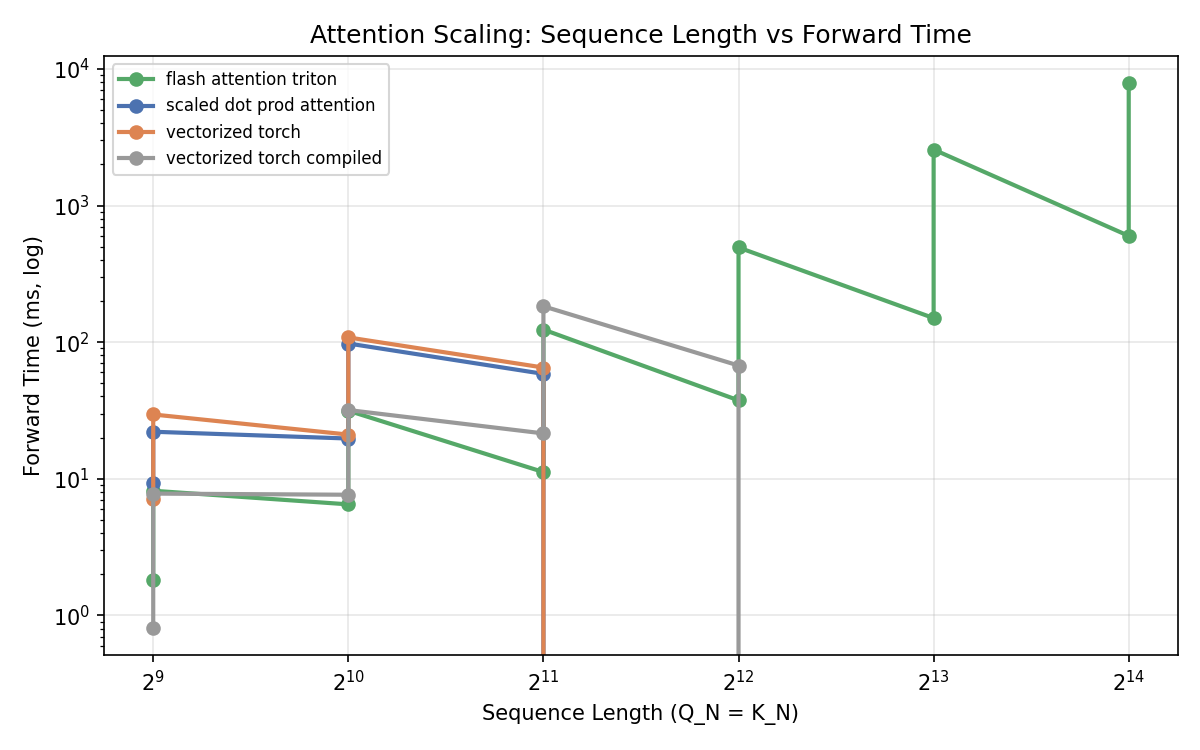
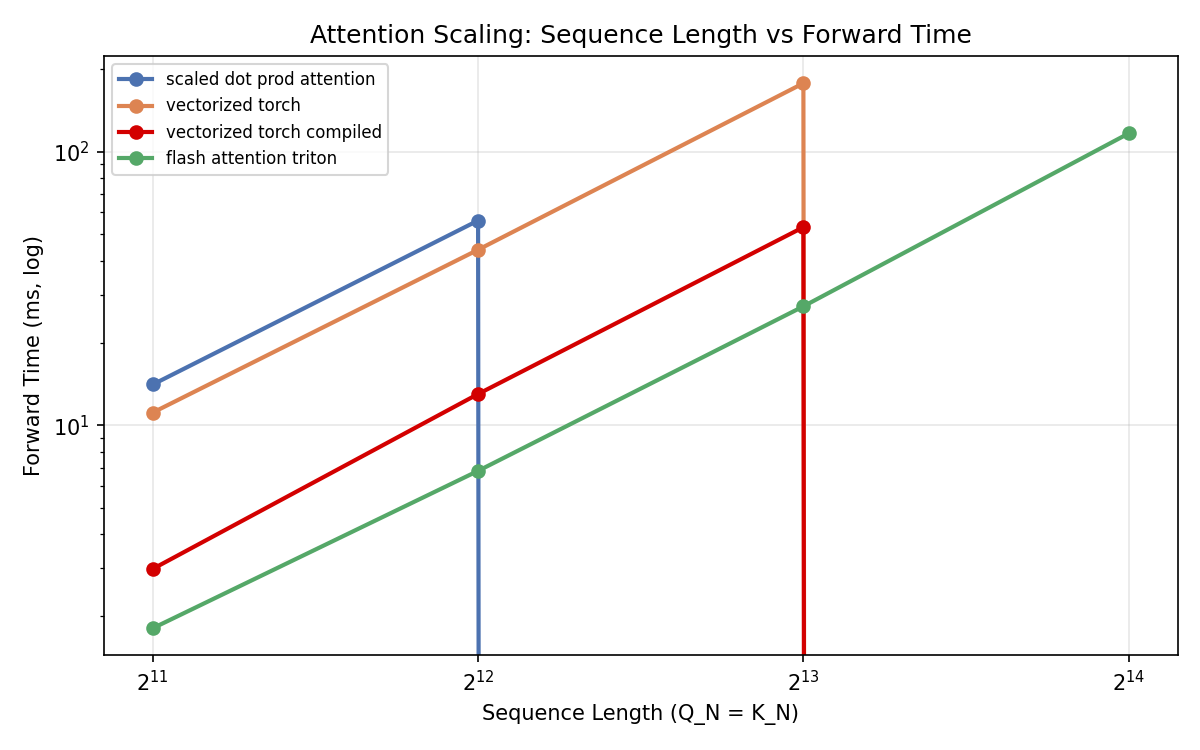
Update benchmarking results

diff --git a/cs336_systems/FlashAttention/flash_attention_triton.py b/cs336_systems/FlashAttention/flash_attention_triton.py
@@ -65,38 +65,31 @@ autotune_configs = [
     triton.Config({'Q_TILE_SIZE': 64, 'K_TILE_SIZE': 64}, num_stages=2, num_warps=8),
     triton.Config({'Q_TILE_SIZE': 64, 'K_TILE_SIZE': 64}, num_stages=3, num_warps=8),
 
-    # ==========================================================
-    # 16x* (latency-focused, plus longer-K variants)
-    # ==========================================================
-    triton.Config({'Q_TILE_SIZE': 16, 'K_TILE_SIZE': 32},  num_stages=1, num_warps=1),
-    triton.Config({'Q_TILE_SIZE': 16, 'K_TILE_SIZE': 32},  num_stages=2, num_warps=2),
-    triton.Config({'Q_TILE_SIZE': 16, 'K_TILE_SIZE': 64},  num_stages=1, num_warps=2),
-    triton.Config({'Q_TILE_SIZE': 16, 'K_TILE_SIZE': 64},  num_stages=2, num_warps=2),
-    triton.Config({'Q_TILE_SIZE': 16, 'K_TILE_SIZE': 128}, num_stages=2, num_warps=4),
-    triton.Config({'Q_TILE_SIZE': 16, 'K_TILE_SIZE': 128}, num_stages=3, num_warps=4),
+    # -------------------------
+    # Baseline / general-purpose
+    # -------------------------
+    triton.Config({'Q_TILE_SIZE': 32,  'K_TILE_SIZE': 64},  num_stages=2, num_warps=4),
+    triton.Config({'Q_TILE_SIZE': 64,  'K_TILE_SIZE': 64},  num_stages=2, num_warps=4),
+    triton.Config({'Q_TILE_SIZE': 64,  'K_TILE_SIZE': 64},  num_stages=3, num_warps=8),
 
-    # ==========================================================
-    # 32x* (balanced, plus long-K and short-K)
-    # ==========================================================
-    triton.Config({'Q_TILE_SIZE': 32, 'K_TILE_SIZE': 16},  num_stages=1, num_warps=2),
-    triton.Config({'Q_TILE_SIZE': 32, 'K_TILE_SIZE': 16},  num_stages=2, num_warps=2),
-    triton.Config({'Q_TILE_SIZE': 32, 'K_TILE_SIZE': 32},  num_stages=1, num_warps=2),
-    triton.Config({'Q_TILE_SIZE': 32, 'K_TILE_SIZE': 32},  num_stages=2, num_warps=4),
-    triton.Config({'Q_TILE_SIZE': 32, 'K_TILE_SIZE': 64},  num_stages=2, num_warps=4),
-    triton.Config({'Q_TILE_SIZE': 32, 'K_TILE_SIZE': 64},  num_stages=3, num_warps=4),
-    triton.Config({'Q_TILE_SIZE': 32, 'K_TILE_SIZE': 128}, num_stages=2, num_warps=8),
-    triton.Config({'Q_TILE_SIZE': 32, 'K_TILE_SIZE': 128}, num_stages=3, num_warps=8),
+    # -------------------------
+    # Long-context leaning (bigger K tiles)
+    # -------------------------
+    triton.Config({'Q_TILE_SIZE': 64,  'K_TILE_SIZE': 128}, num_stages=3, num_warps=8),
+    triton.Config({'Q_TILE_SIZE': 64,  'K_TILE_SIZE': 128}, num_stages=5, num_warps=8),
 
-    # ==========================================================
-    # 64x* (throughput-ish, very common sweet spots)
-    # ==========================================================
-    triton.Config({'Q_TILE_SIZE': 64, 'K_TILE_SIZE': 16},  num_stages=1, num_warps=4),
-    triton.Config({'Q_TILE_SIZE': 64, 'K_TILE_SIZE': 32},  num_stages=1, num_warps=4),
-    triton.Config({'Q_TILE_SIZE': 64, 'K_TILE_SIZE': 32},  num_stages=2, num_warps=8),
-    triton.Config({'Q_TILE_SIZE': 64, 'K_TILE_SIZE': 64},  num_stages=2, num_warps=4),
-    triton.Config({'Q_TILE_SIZE': 64, 'K_TILE_SIZE': 64},  num_stages=3, num_warps=8),
-    triton.Config({'Q_TILE_SIZE': 64, 'K_TILE_SIZE': 128}, num_stages=2, num_warps=8),
-    triton.Config({'Q_TILE_SIZE': 64, 'K_TILE_SIZE': 128}, num_stages=4, num_warps=8),
+    # Push max K tile (useful to demonstrate "long-K can win" at 16k/32k)
+    triton.Config({'Q_TILE_SIZE': 64,  'K_TILE_SIZE': 256}, num_stages=4, num_warps=8),
+    triton.Config({'Q_TILE_SIZE': 64,  'K_TILE_SIZE': 256}, num_stages=6, num_warps=8),
+
+    # -------------------------
+    # Big-Q throughput-ish (often competitive when arithmetic intensity is decent)
+    # -------------------------
+    triton.Config({'Q_TILE_SIZE': 128, 'K_TILE_SIZE': 64},  num_stages=3, num_warps=8),
+    triton.Config({'Q_TILE_SIZE': 128, 'K_TILE_SIZE': 128}, num_stages=4, num_warps=8),
+
+    # Max warps/stages (explicitly included for demo)
+    triton.Config({'Q_TILE_SIZE': 128, 'K_TILE_SIZE': 128}, num_stages=6, num_warps=16),
 ]
 
 # We need to include N_Q, N_K in the key since they affect control flow (masking)

diff --git a/cs336_systems/experiments/benchmark_attention_sweep.py b/cs336_systems/experiments/benchmark_attention_sweep.py
@@ -39,20 +39,12 @@ torch.set_float32_matmul_precision('high')
 DEFAULT_TIERS = [
     
     # ==========================================
-    # 
+    # A XS-size LM with 64 per-head dimension (d_model=768/heads=12), 12 heads, batch size 4
     # ==========================================
-    ("TOY-seq2048-hd64-12h-8b",   2048,   2048,   64, 12, 4),
-    ("TOY-seq4096-hd64-12h-8b",    4096,   4096,   64, 12, 4),
-    ("TOY-seq8192-hd64-12h-8b",    8192,   8192,   64, 12, 4),
-    ("TOY-seq16384-hd64-12h-8b",  16384,  16384,   64, 12, 4),
-
-    # ==========================================
-    # 
-    # ==========================================
-    ("XS-seq2048-hd128-16h-32b",   2048,   2048,   768, 12, 1),
-    ("XS-seq4096-hd128-16h-32b",    4096,   4096,   768, 12, 1),
-    ("XS-seq8192-hd128-16h-32b",    8192,   8192,   768, 12, 1),
-    ("XS-seq16384-hd128-16h-32b",  16384,  16384,   768, 12, 1),
+    ("XS-seq2048-hd64-12h-8b",   2048,   2048,   64, 12, 4),
+    ("XS-seq4096-hd64-12h-8b",    4096,   4096,   64, 12, 4),
+    ("XS-seq8192-hd64-12h-8b",    8192,   8192,   64, 12, 4),
+    ("XS-seq16384-hd64-12h-8b",  16384,  16384,   64, 12, 4),
 ]
 
 KERNEL_NAMES = [
@@ -162,12 +154,16 @@ def _plot_results(results: list[dict], out_dir: Path) -> None:
 
     # drop any rows where an error (e.g. OOM) occurred
     clean_results = [r for r in results if not r.get("error")]
-    kernels = sorted(set(r["kernel"] for r in clean_results))
+    # preserve ordering defined in KERNEL_NAMES; any unexpected kernels appended alphabetically
+    kernels = [k for k in KERNEL_NAMES if any(r["kernel"] == k for r in clean_results)]
+    extras = sorted({r["kernel"] for r in clean_results} - set(kernels))
+    kernels += extras
     tiers = list(dict.fromkeys(r["tier"] for r in clean_results))  # preserves order
 
     kernel_colors = {
         "scaled_dot_prod_attention": "#4C72B0",
         "vectorized_torch": "#DD8452",
+        "vectorized_torch_compiled": "#D30000",
         "flash_attention_triton": "#55A868",
     }
 

diff --git a/artifacts/attention_sweep_report.md b/artifacts/attention_sweep_report.md
@@ -2,54 +2,22 @@
 
 | Kernel | Tier | Q_N | K_N | head_dim | heads | batch | avg_ms | std_ms | min_ms |
 |--------|------|-----|-----|----------|-------|-------|--------|--------|--------|
-| scaled_dot_prod_attention | seq512-hd64-12h-8b | 512 | 512 | 64 | 12 | 8 | 9.2754 | 1.8403 | 3.5937 |
-| scaled_dot_prod_attention | seq1024-hd64-12h-8b | 1024 | 1024 | 64 | 12 | 8 | 19.6914 | 8.0418 | 13.2742 |
-| scaled_dot_prod_attention | seq2048-hd64-12h-8b | 2048 | 2048 | 64 | 12 | 8 | 58.5596 | 4.4808 | 56.8635 |
-| scaled_dot_prod_attention | seq4096-hd64-12h-8b | 4096 | 4096 | 64 | 12 | 8 | 0 | 0 | 0 |
-| scaled_dot_prod_attention | seq8192-hd64-12h-8b | 8192 | 8192 | 64 | 12 | 8 | 0 | 0 | 0 |
-| scaled_dot_prod_attention | seq16384-hd64-12h-8b | 16384 | 16384 | 64 | 12 | 8 | 0 | 0 | 0 |
-| scaled_dot_prod_attention | seq512-hd128-16h-32b | 512 | 512 | 128 | 16 | 32 | 22.0808 | 11.0212 | 18.0933 |
-| scaled_dot_prod_attention | seq1024-hd128-16h-32b | 1024 | 1024 | 128 | 16 | 32 | 97.6798 | 32.8425 | 75.0704 |
-| scaled_dot_prod_attention | seq2048-hd128-16h-32b | 2048 | 2048 | 128 | 16 | 32 | 0 | 0 | 0 |
-| scaled_dot_prod_attention | seq4096-hd128-16h-32b | 4096 | 4096 | 128 | 16 | 32 | 0 | 0 | 0 |
-| scaled_dot_prod_attention | seq8192-hd128-16h-32b | 8192 | 8192 | 128 | 16 | 32 | 0 | 0 | 0 |
-| scaled_dot_prod_attention | seq16384-hd128-16h-32b | 16384 | 16384 | 128 | 16 | 32 | 0 | 0 | 0 |
-| vectorized_torch | seq512-hd64-12h-8b | 512 | 512 | 64 | 12 | 8 | 7.1042 | 1.0818 | 3.7354 |
-| vectorized_torch | seq1024-hd64-12h-8b | 1024 | 1024 | 64 | 12 | 8 | 21.0407 | 6.0745 | 11.9808 |
-| vectorized_torch | seq2048-hd64-12h-8b | 2048 | 2048 | 64 | 12 | 8 | 65.1321 | 23.492 | 47.0229 |
-| vectorized_torch | seq4096-hd64-12h-8b | 4096 | 4096 | 64 | 12 | 8 | 0 | 0 | 0 |
-| vectorized_torch | seq8192-hd64-12h-8b | 8192 | 8192 | 64 | 12 | 8 | 0 | 0 | 0 |
-| vectorized_torch | seq16384-hd64-12h-8b | 16384 | 16384 | 64 | 12 | 8 | 0 | 0 | 0 |
-| vectorized_torch | seq512-hd128-16h-32b | 512 | 512 | 128 | 16 | 32 | 29.5341 | 9.1936 | 16.6072 |
-| vectorized_torch | seq1024-hd128-16h-32b | 1024 | 1024 | 128 | 16 | 32 | 108.2373 | 34.1782 | 67.0144 |
-| vectorized_torch | seq2048-hd128-16h-32b | 2048 | 2048 | 128 | 16 | 32 | 0 | 0 | 0 |
-| vectorized_torch | seq4096-hd128-16h-32b | 4096 | 4096 | 128 | 16 | 32 | 0 | 0 | 0 |
-| vectorized_torch | seq8192-hd128-16h-32b | 8192 | 8192 | 128 | 16 | 32 | 0 | 0 | 0 |
-| vectorized_torch | seq16384-hd128-16h-32b | 16384 | 16384 | 128 | 16 | 32 | 0 | 0 | 0 |
-| vectorized_torch_compiled | seq512-hd64-12h-8b | 512 | 512 | 64 | 12 | 8 | 0.8049 | 0.1217 | 0.783 |
-| vectorized_torch_compiled | seq1024-hd64-12h-8b | 1024 | 1024 | 64 | 12 | 8 | 7.6356 | 1.0436 | 4.2424 |
-| vectorized_torch_compiled | seq2048-hd64-12h-8b | 2048 | 2048 | 64 | 12 | 8 | 21.4625 | 5.6356 | 12.0098 |
-| vectorized_torch_compiled | seq4096-hd64-12h-8b | 4096 | 4096 | 64 | 12 | 8 | 67.3988 | 21.7236 | 45.5284 |
-| vectorized_torch_compiled | seq8192-hd64-12h-8b | 8192 | 8192 | 64 | 12 | 8 | 0 | 0 | 0 |
-| vectorized_torch_compiled | seq16384-hd64-12h-8b | 16384 | 16384 | 64 | 12 | 8 | 0 | 0 | 0 |
-| vectorized_torch_compiled | seq512-hd128-16h-32b | 512 | 512 | 128 | 16 | 32 | 7.7848 | 0.1612 | 7.6793 |
-| vectorized_torch_compiled | seq1024-hd128-16h-32b | 1024 | 1024 | 128 | 16 | 32 | 31.8293 | 3.5766 | 30.0544 |
-| vectorized_torch_compiled | seq2048-hd128-16h-32b | 2048 | 2048 | 128 | 16 | 32 | 182.952 | 62.3671 | 137.212 |
-| vectorized_torch_compiled | seq4096-hd128-16h-32b | 4096 | 4096 | 128 | 16 | 32 | 0 | 0 | 0 |
-| vectorized_torch_compiled | seq8192-hd128-16h-32b | 8192 | 8192 | 128 | 16 | 32 | 0 | 0 | 0 |
-| vectorized_torch_compiled | seq16384-hd128-16h-32b | 16384 | 16384 | 128 | 16 | 32 | 0 | 0 | 0 |
-| flash_attention_triton | seq512-hd64-12h-8b | 512 | 512 | 64 | 12 | 8 | 1.8274 | 7.3627 | 0.7605 |
-| flash_attention_triton | seq1024-hd64-12h-8b | 1024 | 1024 | 64 | 12 | 8 | 6.4925 | 1.1074 | 3.3998 |
-| flash_attention_triton | seq2048-hd64-12h-8b | 2048 | 2048 | 64 | 12 | 8 | 11.1897 | 0.3333 | 11.0788 |
-| flash_attention_triton | seq4096-hd64-12h-8b | 4096 | 4096 | 64 | 12 | 8 | 37.4668 | 0.0075 | 37.4521 |
-| flash_attention_triton | seq8192-hd64-12h-8b | 8192 | 8192 | 64 | 12 | 8 | 149.8888 | 0.0147 | 149.86 |
-| flash_attention_triton | seq16384-hd64-12h-8b | 16384 | 16384 | 64 | 12 | 8 | 599.0627 | 0.0534 | 599.0042 |
-| flash_attention_triton | seq512-hd128-16h-32b | 512 | 512 | 128 | 16 | 32 | 8.1663 | 0.0361 | 8.0727 |
-| flash_attention_triton | seq1024-hd128-16h-32b | 1024 | 1024 | 128 | 16 | 32 | 31.4655 | 0.1029 | 31.4182 |
-| flash_attention_triton | seq2048-hd128-16h-32b | 2048 | 2048 | 128 | 16 | 32 | 123.5675 | 0.0278 | 123.4891 |
-| flash_attention_triton | seq4096-hd128-16h-32b | 4096 | 4096 | 128 | 16 | 32 | 493.0789 | 0.0799 | 492.9344 |
-| flash_attention_triton | seq8192-hd128-16h-32b | 8192 | 8192 | 128 | 16 | 32 | 2568.9467 | 764.7284 | 2101.5956 |
-| flash_attention_triton | seq16384-hd128-16h-32b | 16384 | 16384 | 128 | 16 | 32 | 7850.0253 | 0.4664 | 7848.7817 |
+| scaled_dot_prod_attention | XS-seq2048-hd64-12h-8b | 2048 | 2048 | 64 | 12 | 4 | 14.0893 | 0.151 | 13.9472 |
+| scaled_dot_prod_attention | XS-seq4096-hd64-12h-8b | 4096 | 4096 | 64 | 12 | 4 | 56.0007 | 0.1561 | 55.6567 |
+| scaled_dot_prod_attention | XS-seq8192-hd64-12h-8b | 8192 | 8192 | 64 | 12 | 4 | 0 | 0 | 0 |
+| scaled_dot_prod_attention | XS-seq16384-hd64-12h-8b | 16384 | 16384 | 64 | 12 | 4 | 0 | 0 | 0 |
+| vectorized_torch | XS-seq2048-hd64-12h-8b | 2048 | 2048 | 64 | 12 | 4 | 11.1239 | 0.0389 | 11.0656 |
+| vectorized_torch | XS-seq4096-hd64-12h-8b | 4096 | 4096 | 64 | 12 | 4 | 43.7941 | 0.0404 | 43.7203 |
+| vectorized_torch | XS-seq8192-hd64-12h-8b | 8192 | 8192 | 64 | 12 | 4 | 177.8193 | 0.4083 | 177.0101 |
+| vectorized_torch | XS-seq16384-hd64-12h-8b | 16384 | 16384 | 64 | 12 | 4 | 0 | 0 | 0 |
+| vectorized_torch_compiled | XS-seq2048-hd64-12h-8b | 2048 | 2048 | 64 | 12 | 4 | 2.9847 | 0.0341 | 2.9082 |
+| vectorized_torch_compiled | XS-seq4096-hd64-12h-8b | 4096 | 4096 | 64 | 12 | 4 | 13.0045 | 0.2115 | 12.7568 |
+| vectorized_torch_compiled | XS-seq8192-hd64-12h-8b | 8192 | 8192 | 64 | 12 | 4 | 52.9499 | 0.1856 | 52.4883 |
+| vectorized_torch_compiled | XS-seq16384-hd64-12h-8b | 16384 | 16384 | 64 | 12 | 4 | 0 | 0 | 0 |
+| flash_attention_triton | XS-seq2048-hd64-12h-8b | 2048 | 2048 | 64 | 12 | 4 | 1.8115 | 0.015 | 1.8021 |
+| flash_attention_triton | XS-seq4096-hd64-12h-8b | 4096 | 4096 | 64 | 12 | 4 | 6.8102 | 0.0069 | 6.8021 |
+| flash_attention_triton | XS-seq8192-hd64-12h-8b | 8192 | 8192 | 64 | 12 | 4 | 27.199 | 0.0099 | 27.1851 |
+| flash_attention_triton | XS-seq16384-hd64-12h-8b | 16384 | 16384 | 64 | 12 | 4 | 116.6027 | 1.4708 | 113.7471 |
 
 ![Forward Time](attention_sweep_forward.png)
 
